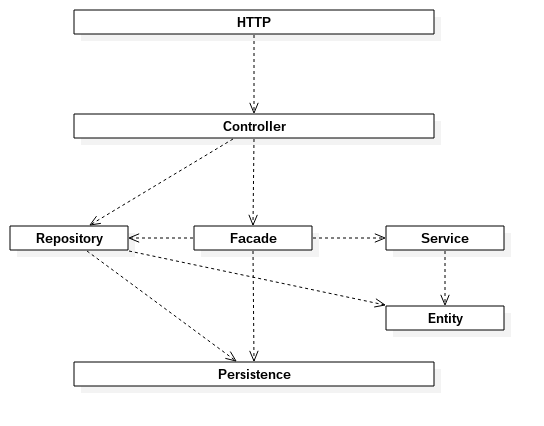
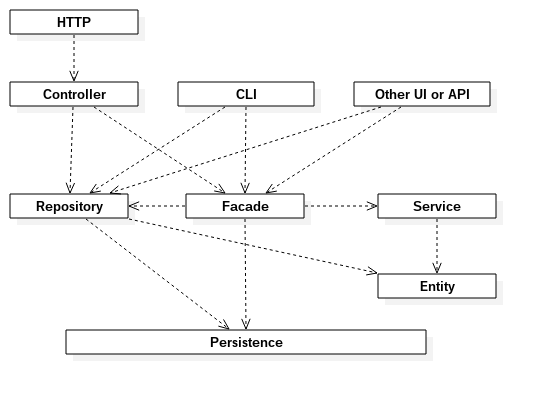
docs: architecture

diff --git a/docs/_wiki/architecture.md b/docs/_wiki/architecture.md
@@ -7,7 +7,9 @@ title: System architecture
 
 ## Entity
 
-* zodpovídá za svoji konzistenci, není anémická
+* zapouzdřuje data
+* zodpovídá za svoji konzistenci, validuje si přijímaná data, není anémická
+	* v každém momentu své existence je validní
 	* [AnemicDomainModel by Martin Fowler](http://www.martinfowler.com/bliki/AnemicDomainModel.html)
 	* [Anemic domain model on Wikipedia](https://en.wikipedia.org/wiki/Anemic_domain_model)
 	* Hlavní důvod proč nechceme takové entity je, že anémický model popírá principy OOP, viz zkrácené "Liabilities" na wikipedii.
@@ -20,8 +22,10 @@ title: System architecture
 * je persistence agnostic/ignorant
 	* [Nejstravitelnější zdůvodnění je na SO](http://stackoverflow.com/a/906094/602899)
 * její identita je daná její existencí
+	* [Classification by Eric Evans on Martin Fowler's blog](http://martinfowler.com/bliki/EvansClassification.html)
 	* Tak jako v reálném světe jsem já jako jedinec uníkátní z principu toho že existuji, tak stejnou vlastnost má i entita a nějaký identifikátor je pouze implementační detail srovnatelný s mým rodným číslem. Ovšem budu existovat i bez rodného čísla a nikdy nebudu stejný jako někdo jiný.
 	* Entity nikdy nebudeme porovnávat přes bussines equivalence, ale pouze přes reference (fakt že ukazují na stejné místo v paměti).
+	* Mohlo by se zdát, že dvě entity jsou stejné pokud mají stejné `id` a typ, ale to není tak jednoduché. Dva objekty jsou stejné pouze pokud mají stejnou identitu a v případě že je načítáme z databáze tak budou stejné pouze v případě, že mají stejné nejen `id` a typ ale navíc je vrátila stejná instance EntityManageru, která by měla po dobu běhu transakce být neměnná.
 
 ## Services
 
@@ -36,6 +40,10 @@ title: System architecture
 * kontroluje pouze věci, které neumí zkontrolovat sama entita
 	* například že uživatel v databázi je unikátní, ovšem na databázi nesahá, místo toho si nechá předat nullable argumentem případného již existujícího uživatele se stejným emailem od fasády
 * nesmí sahat na fasády ani repozitáře
+* není nutné, aby odpovídaly 1:1 entitám, repozitářům nebo fasádám
+* je striktně bezstavová
+* další výhody:
+	* maximální znovupoužitelnost i v rámci jiných services
 
 ## Repositories
 
@@ -45,9 +53,13 @@ title: System architecture
 * striktní zákaz volání jakéhokoliv `persist()`, `flush()`, `clear()`, `merge()` a dalších metod na modifikaci entit nebo čištění identity mapy
 * nikdy nepřijímá v argumentech entity, ani když podle nich potřebuje hledat
 	* místo toho přijímá vždy jejich identifikátory - častěji mám k dispozici `id` entity, než entitu samotnou
+* není nutné, aby odpovídaly 1:1 entitám, službám nebo fasádám
 
 ## Facades
 
+* veřejné rozhranní aplikace
+	* metody odpovídají jednotlivým use-cases, které je v aplikaci možné provádět
+	* slouží jako znovupoužitelná horní vrstva abstrakce nad modelem - je možné použít v controlleru, cli rozhranní, restovém api, cronech, ...
 * obsahuje co nejmenší množství logiky, v ideálním případě vůbec žádnou
 * využívají služby, repozitáře a entity manager
 * z repozitářů načítá data, které vyžaduje služba ke svojí práci
@@ -59,6 +71,7 @@ title: System architecture
 * přijímá buď surová data, nebo struktury (v třídách, které jsou definované ve stejném namespace)
 * může vracet buď specifické result objeky, nebo entity
 	* entity zodpovídají za svůj stav - nevadí tedy, že je vypustíme mimo fasády
+* není nutné, aby odpovídaly 1:1 entitám, službám nebo repozitářům
 
 ## Controllers
 
